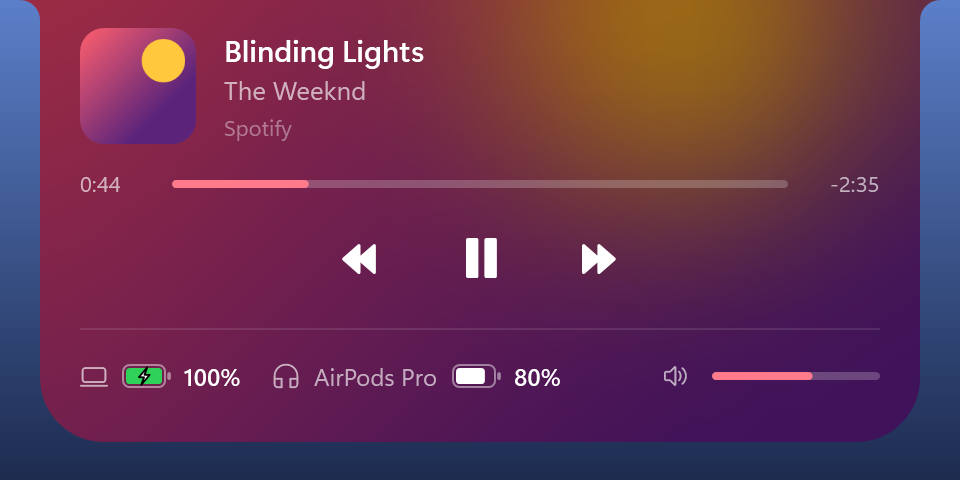
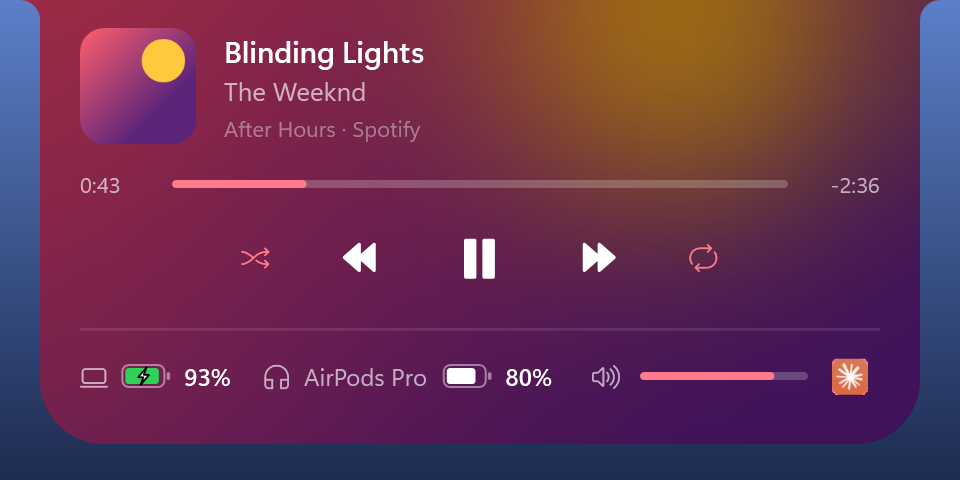
Docs for 1.2.0: AirDrop, volume, tests
README explains AirDrop and how it stays safe (including that LAN peers are not authenticated), new screenshots with demo data, test instructions; changelog entry for 1.2.0.

diff --git a/README.md b/README.md
@@ -1,25 +1,53 @@
+<img src="docs/icon.png" width="72" align="left" alt="WinNotch icon">
+
 # WinNotch
 
-A Dynamic Island–style notch for Windows. It sits at the top of your screen, shows what's playing with full controls, tints itself in the colours of the album cover, and keeps an eye on your laptop and Bluetooth headphone battery – while using almost no resources.
+A Dynamic Island–style notch for Windows. It sits at the top of your screen, shows what's playing with full controls, tints itself in the colours of the album cover, sends files to your friends AirDrop-style and keeps an eye on your laptop and Bluetooth headphone battery – while using almost no resources.
 
 <p align="center">
-  <img src="docs/expanded.png" width="480" alt="Expanded notch with media controls and battery levels">
+  <img src="docs/expanded.png" width="480" alt="Expanded notch with media controls, shuffle and repeat, battery levels">
 </p>
 <p align="center">
   <img src="docs/compact.png" width="480" alt="Compact notch while music plays">
+  <img src="docs/volume.png" width="480" alt="Volume pop-out">
   <img src="docs/peek.png" width="480" alt="Pop-out when headphones connect">
 </p>
 
 ## Features
 
-- **Media controls** for anything that talks to Windows' media controls – Spotify, YouTube in Chrome or Edge, VLC, … Cover, title, seek bar, play/pause, skip and volume.
+- **Media controls** for anything that talks to Windows' media controls – Spotify, YouTube in Chrome or Edge, VLC, … Cover, title, album, seek bar, play/pause, skip, **shuffle and repeat**, volume. Click the cover to bring the player to the front.
 - **Album colours** – the notch is washed in a blurred copy of the cover and crossfades when the track changes.
+- **Volume pop-out** – change the volume with your keys or the taskbar and the notch shows it, like a phone does.
+- **AirDrop** – drop files on the notch and send them to a friend with WinNotch, on the same network or anywhere over the internet (see below).
 - **Battery levels** for your laptop and Bluetooth devices (the same values Windows Settings shows).
 - **Live activities** – short pop-outs when headphones connect, the charger is plugged in or the battery runs low.
 - **AI button** – one click opens Claude, Gemini or ChatGPT: the desktop app if you have it (also Store apps and web apps installed from Edge or Chrome), the website otherwise. Or pick any app you like.
 - **Teams messages** – a new message pops out of the notch with who wrote and the first line, and a purple badge counts what you haven't seen yet. Opening Teams (or clicking the message in the notch) clears it.
 - **Stays out of your way** – hides during fullscreen games and videos, never steals focus, works on any monitor.
-- **Right-click menu** – animated equalizer, minimize when idle, start with Windows, AI button (Claude, Gemini, ChatGPT, choose app…, off), Teams messages, pick a screen, quit.
+- **Right-click menu** – animated equalizer, minimize when idle, start with Windows, AI button (Claude, Gemini, ChatGPT, choose app…, off), Teams messages, AirDrop, receive with a copied code, pick a screen, quit.
+
+## AirDrop
+
+<p align="center">
+  <img src="docs/airdrop-share.png" width="480" alt="Dropping a file on the notch: pick a person or Code">
+  <img src="docs/airdrop-ask.png" width="480" alt="The receiver's notch asks before anything is saved">
+</p>
+
+Drag files onto the notch. It opens and shows:
+
+- **People nearby** – everyone running WinNotch on the same network. Drop the files on a person and their notch asks *Accept* or *Decline*.
+- **Code** – works anywhere, also on networks that don't let devices talk to each other (school, office, hotspots). Drop the files on *Code* and a code like `WN-K7Q2A-…` is copied for you. Paste it to your friend in any chat; as soon as they copy it, their notch offers to receive the file. Right-click › *Receive with copied code* does the same.
+
+Received files land in your **Downloads** folder.
+
+How it stays safe:
+
+- **Nothing arrives without a yes.** The receiver sees who is sending what (names and sizes) and has to accept; no answer within a minute counts as no.
+- **Encrypted.** With a code, the key comes from the code itself, so only the person you gave the code to can read the file. On the network both notches agree on a fresh key for every transfer (ECDH); that stops anyone from listening in, but the notches don't verify each other, so someone on the same network could pretend to be a notch – use *Code* on networks you don't trust. Everything is sent with AES-256-GCM, so changed or replayed data is rejected.
+- **Through the relay, only scrambled bytes.** Code transfers go through the public *transit relay* of the open-source [magic-wormhole](https://github.com/magic-wormhole/magic-wormhole) project. It only pairs the two sides and passes encrypted data along – it never sees the code, the key, file names or content. A code works once and expires after 15 minutes.
+- **Files stay where they belong.** File names are cleaned up, so nothing can be written outside Downloads; existing files are never overwritten (you get `photo (1).jpg`); a cancelled transfer leaves no half file behind.
+- **Marked as downloaded.** Received files get Windows' "from the internet" mark, so Windows warns before running a received program, just like with a browser download.
+- To be found on the network, WinNotch listens on UDP port 47811 and a TCP port, so Windows Firewall may ask once. Turn AirDrop off in the right-click menu if you don't want any of it.
 
 ## Lightweight
 
@@ -27,7 +55,7 @@ Native WPF on .NET 10 and event driven: it reacts when Windows reports a change 
 
 | State | CPU | RAM |
 | --- | --- | --- |
-| Idle | ~0.05 % | ~6–15 MB |
+| Idle | ~0.05 % | ~10–16 MB |
 | Music playing, equalizer animated | ~0.3–0.5 % | ~10–20 MB |
 
 Measured on an 8-thread laptop. Turning off the equalizer animation brings playback down to idle levels.
@@ -57,6 +85,14 @@ dotnet publish WinNotch -c Release -r win-x64 --self-contained false -p:PublishS
 ```
 
 This gives you `publish/WinNotch.exe`, which needs the .NET 10 Desktop Runtime. For a single exe that runs anywhere without installing .NET, use `--self-contained true -p:IncludeNativeLibrariesForSelfExtract=true` instead.
+
+## Tests
+
+```bash
+dotnet test WinNotch.Tests
+```
+
+Covers the AirDrop codes, the encryption (tampering, wrong keys, replays), the transfer protocol (including a sender that tries `..\` paths or sends more than it offered), two notches finding each other and sending a file over the network, and real transfers through the public relay (these need an internet connection; skip them with `--filter "Category!=Online"`).
 
 ## Vibe coded
 

diff --git a/CHANGELOG.md b/CHANGELOG.md
@@ -1,5 +1,24 @@
 # Changelog
 
+## 1.2.0 – 2026-10-22
+
+### Added
+- **AirDrop.** Drag files onto the notch and drop them on a person nearby (other WinNotch users on the same network) or on **Code** to send them anywhere over the internet. The receiver's notch shows who sends what and asks *Accept* / *Decline*; files are saved to Downloads.
+  - Same network: discovery over UDP broadcast (port 47811), transfer over TCP, a fresh ECDH key per transfer (protects against eavesdropping; peers are not authenticated).
+  - Anywhere: a one-time code (`WN-…`, 128 bits) that is copied for you; when your friend copies it, their notch offers to receive. Data goes through the public magic-wormhole transit relay, which only sees encrypted bytes.
+  - AES-256-GCM for everything; tampered or replayed data is rejected. File names are sanitised, existing files are never overwritten, cancelled transfers leave nothing behind, received files carry Windows' "downloaded from the internet" mark.
+  - Right-click › *AirDrop* switches it all off; *Receive with copied code* starts a receive by hand.
+- **Volume pop-out:** the notch shows the system volume when it changes (keys, taskbar, other apps). Event driven, and it follows a change of output device.
+- **Shuffle and repeat** buttons in the open notch (when the player supports them), the album name next to the app, and clicking the cover or title brings the player to the front.
+- **Test project** (`dotnet test WinNotch.Tests`) with 41 tests – codes, encryption, transfer protocol, malicious senders, network discovery and real relay transfers – plus an end-to-end test that sends a file to a running notch (runs only on request).
+
+### Fixed (found by the end-to-end test before release)
+- Accepting a file sent with a code failed with a threading error: the question was shown from a worker thread.
+
+### Changed
+- New app icon: a clean blue–violet tile with the notch.
+- Version 1.2.0.
+
 ## 1.1.1 – 2026-10-21
 
 ### Changed
